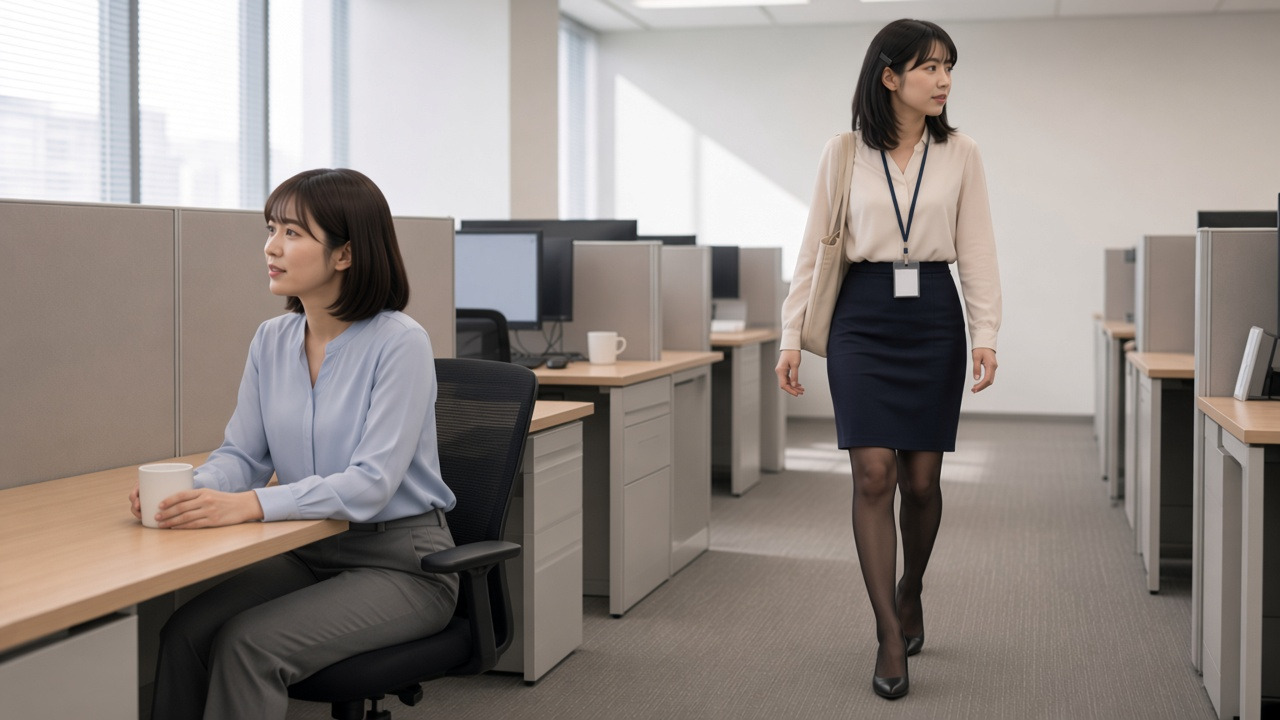
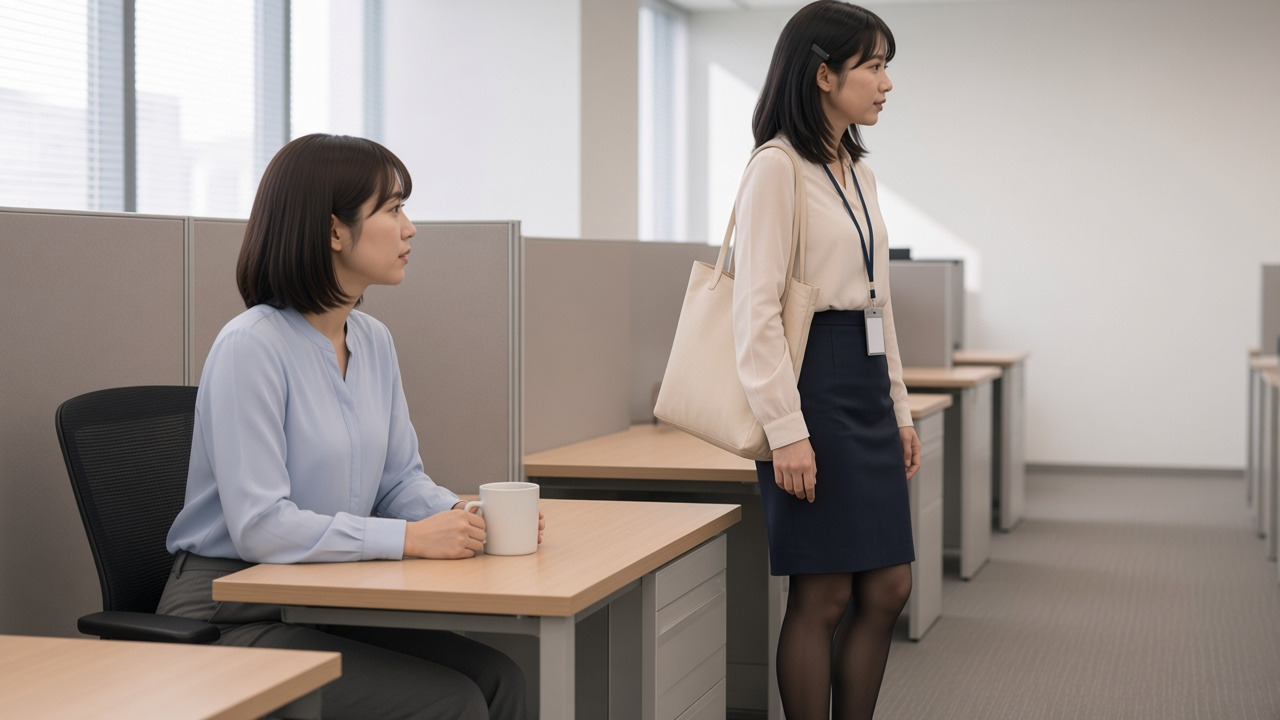
h3 episode: マグ戦のスチールを接触寸前に差し替える
08 と同じ遠景だとトートが届かない。10 を隣席が見える二人ショットにした。

diff --git a/minimaxh3/episodes/kasumi-late-desk/PREP.md b/minimaxh3/episodes/kasumi-late-desk/PREP.md
@@ -56,6 +56,10 @@
 | 11 | 顔が増えると別人 | `face_visible` は 07 だけ |
 | 12 | 完了で終わる | 最後は失敗「隣の席に座った」。マグが隣の机を指す |
 | 13 | inbox / 原 mp4 / スタジオ | Drive は `episodes/kasumi-late-desk/`。R2V しない |
+| 14 | 10 のスチールが 08 と同じでトートがマグに届かない | 10 を接触寸前の二人ショットに差し替え（手は空、隣の空席が見える） |
+| 15 | 08 のカメラ文が「みおの背」なのにスチールは正面 | カメラ文をスチールに合わせた |
+
+残るリスク（入力では潰せない）: GPU 本番をまだ回していない。H3 の同一性・8step Larry での格闘のにじみ。青木の名札に文字が乗ることがある。
 
 ## 理想台本
 
